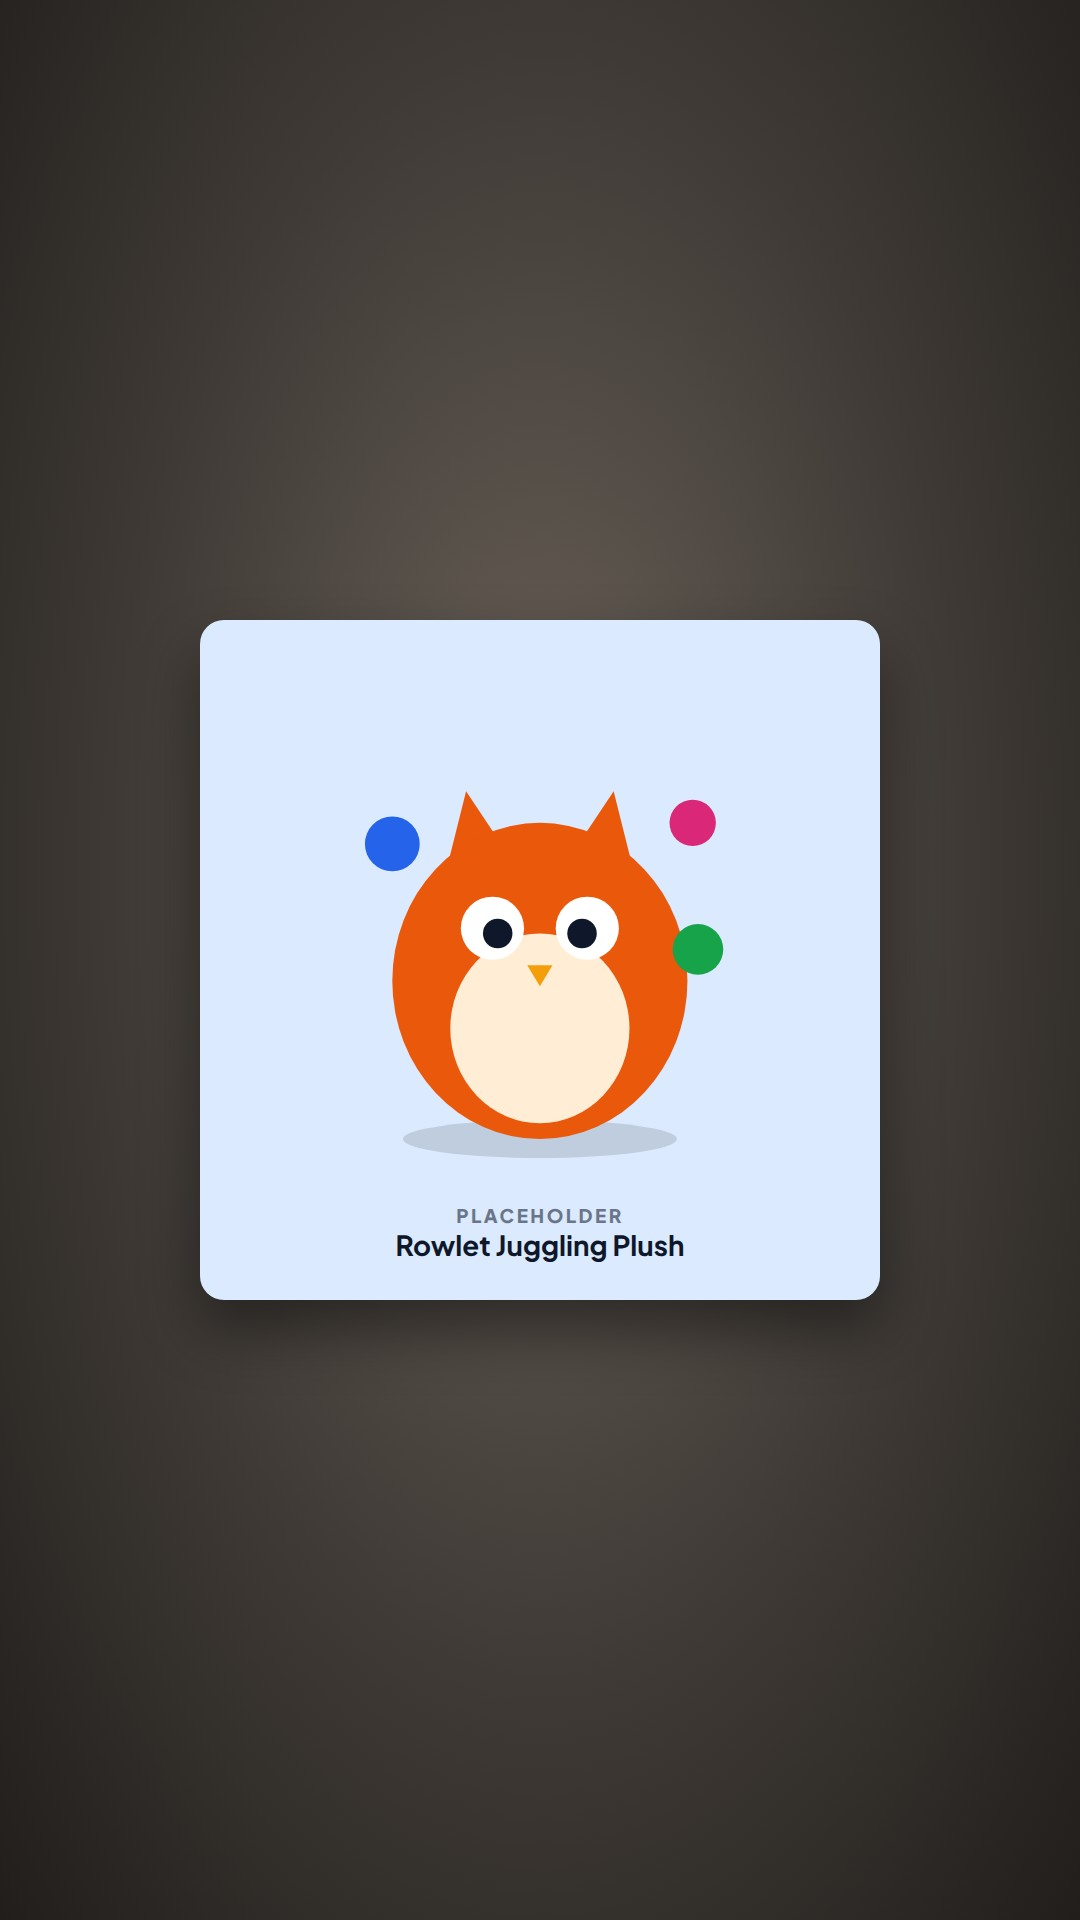
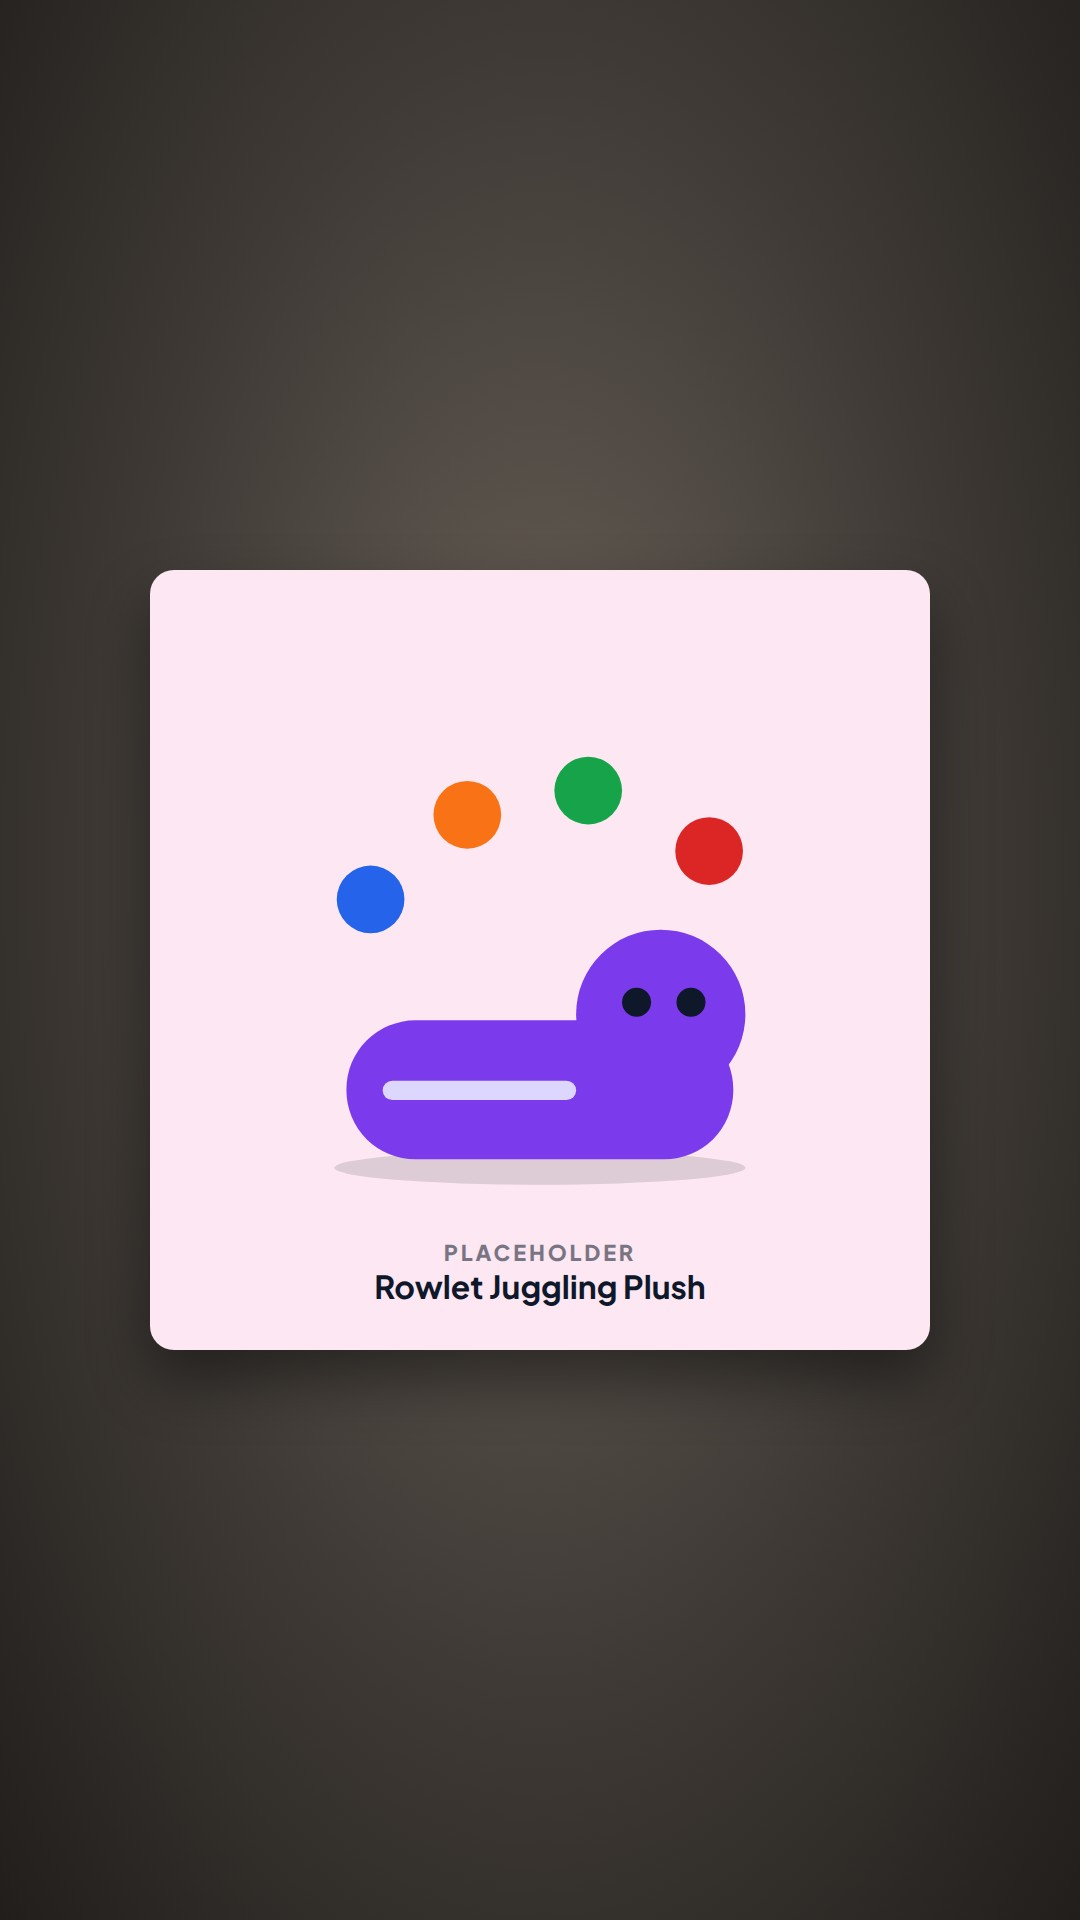
Record the store video with screenrecord and fix the demo build
- Record each scene with adb screenrecord at 20 Mbps. Maestro's
  startRecording uses 100 kbps and loses the end of each clip. Each scene
  is now its own Maestro flow, and capture.sh shortens still stretches.
- Load the demo images with expo-image. In Android release builds,
  expo-asset gives bundled images a drawable resource name, not a file.
- Show an alert when "Load sample data" fails, instead of failing silently.
- Redraw the juggling placeholder so the photo matcher tells it apart from
  the jumbo plush, and hide the demo status bar's mobile signal.

Changed region(s): [[0.1222, 0.2812, 0.8861, 0.7188]]

diff --git a/video/src/stills/DemoAssets.tsx b/video/src/stills/DemoAssets.tsx
@@ -12,10 +12,14 @@ import { ean13 } from './ean13';
 
 export type DemoItem = 'jumbo' | 'juggling';
 
-const ITEMS: Record<DemoItem, { title: string; bg: string; body: string; belly: string; balls: boolean }> = {
-  jumbo: { title: 'Rowlet Jumbo Plush', bg: '#FEF3C7', body: '#65A30D', belly: '#ECFCCB', balls: false },
-  juggling: { title: 'Rowlet Juggling Plush', bg: '#DBEAFE', body: '#EA580C', belly: '#FFEDD5', balls: true },
+// Two clearly different drawings, so the photo matcher tells them apart.
+const ITEMS: Record<DemoItem, { title: string; bg: string; drawing: React.ReactNode }> = {
+  jumbo: { title: 'Rowlet Jumbo Plush', bg: '#FEF3C7', drawing: <Owl /> },
+  juggling: { title: 'Rowlet Juggling Plush', bg: '#FCE7F3', drawing: <Juggler /> },
 };
+
+/** Side of the item in the photo scene: a little over the guides, so the scanner's crop is mostly the item. */
+const SCENE_ITEM_PX = 780;
 
 /** Size of the scanner's guides on a 1080 × 1920 scene shown on a 9:16 screen (272 dp at 2.625 px per dp is 714 px). */
 const GUIDE_PX = 680;
@@ -25,28 +29,47 @@ export function DemoItemPhoto({ item }: { item: DemoItem }) {
   return (
     <AbsoluteFill style={{ backgroundColor: it.bg, alignItems: 'center', justifyContent: 'center', fontFamily }}>
       <svg viewBox="0 0 400 400" style={{ width: '62%', height: '62%' }}>
-        <ellipse cx="200" cy="370" rx="130" ry="18" fill="rgba(0,0,0,0.12)" />
-        <path d="M110 120 L130 40 L170 100 Z M290 120 L270 40 L230 100 Z" fill={it.body} />
-        <ellipse cx="200" cy="220" rx="140" ry="150" fill={it.body} />
-        <ellipse cx="200" cy="265" rx="85" ry="90" fill={it.belly} />
-        <circle cx="155" cy="170" r="30" fill="white" />
-        <circle cx="245" cy="170" r="30" fill="white" />
-        <circle cx="160" cy="175" r="14" fill={colors.textPrimary} />
-        <circle cx="240" cy="175" r="14" fill={colors.textPrimary} />
-        <path d="M188 205 L212 205 L200 225 Z" fill="#F59E0B" />
-        {it.balls && (
-          <g>
-            <circle cx="60" cy="90" r="26" fill="#2563EB" />
-            <circle cx="345" cy="70" r="22" fill="#DB2777" />
-            <circle cx="350" cy="190" r="24" fill="#16A34A" />
-          </g>
-        )}
+        {it.drawing}
       </svg>
       <div style={{ position: 'absolute', bottom: 60, left: 0, right: 0, textAlign: 'center', color: colors.textPrimary }}>
         <div style={{ fontSize: 30, fontWeight: 800, letterSpacing: 4, opacity: 0.55 }}>PLACEHOLDER</div>
         <div style={{ fontSize: 44, fontWeight: 700 }}>{it.title}</div>
       </div>
     </AbsoluteFill>
+  );
+}
+
+function Owl() {
+  return (
+    <g>
+      <ellipse cx="200" cy="370" rx="130" ry="18" fill="rgba(0,0,0,0.12)" />
+      <path d="M110 120 L130 40 L170 100 Z M290 120 L270 40 L230 100 Z" fill="#65A30D" />
+      <ellipse cx="200" cy="220" rx="140" ry="150" fill="#65A30D" />
+      <ellipse cx="200" cy="265" rx="85" ry="90" fill="#ECFCCB" />
+      <circle cx="155" cy="170" r="30" fill="white" />
+      <circle cx="245" cy="170" r="30" fill="white" />
+      <circle cx="160" cy="175" r="14" fill={colors.textPrimary} />
+      <circle cx="240" cy="175" r="14" fill={colors.textPrimary} />
+      <path d="M188 205 L212 205 L200 225 Z" fill="#F59E0B" />
+    </g>
+  );
+}
+
+/** A long, lying plush under an arc of balls. */
+function Juggler() {
+  return (
+    <g>
+      <ellipse cx="200" cy="372" rx="170" ry="14" fill="rgba(0,0,0,0.12)" />
+      <rect x="40" y="250" width="320" height="115" rx="57" fill="#7C3AED" />
+      <circle cx="300" cy="245" r="70" fill="#7C3AED" />
+      <circle cx="280" cy="235" r="12" fill={colors.textPrimary} />
+      <circle cx="325" cy="235" r="12" fill={colors.textPrimary} />
+      <rect x="70" y="300" width="160" height="16" rx="8" fill="#DDD6FE" />
+      <circle cx="60" cy="150" r="28" fill="#2563EB" />
+      <circle cx="140" cy="80" r="28" fill="#F97316" />
+      <circle cx="240" cy="60" r="28" fill="#16A34A" />
+      <circle cx="340" cy="110" r="28" fill="#DC2626" />
+    </g>
   );
 }
 
@@ -71,8 +94,8 @@ export function DemoPhotoScene() {
     <Tabletop>
       <div
         style={{
-          width: GUIDE_PX,
-          height: GUIDE_PX,
+          width: SCENE_ITEM_PX,
+          height: SCENE_ITEM_PX,
           borderRadius: 24,
           overflow: 'hidden',
           position: 'relative',
@@ -80,7 +103,7 @@ export function DemoPhotoScene() {
         }}
       >
         {/* The whole 1080 px reference photo, scaled down, so the scan looks like it. */}
-        <div style={{ width: 1080, height: 1080, transform: `scale(${GUIDE_PX / 1080})`, transformOrigin: 'top left' }}>
+        <div style={{ width: 1080, height: 1080, transform: `scale(${SCENE_ITEM_PX / 1080})`, transformOrigin: 'top left' }}>
           <DemoItemPhoto item="juggling" />
         </div>
       </div>

diff --git a/src/features/demo/demo.ts b/src/features/demo/demo.ts
@@ -1,4 +1,5 @@
-import { Asset } from 'expo-asset';
+import { Image } from 'expo-image';
+import { ImageManipulator, SaveFormat } from 'expo-image-manipulator';
 
 import { updateItem } from '@/db/repositories/items';
 import { SEED_BARCODES, seedDatabase } from '@/db/seed';
@@ -36,9 +37,17 @@ const ITEM_PHOTOS: Record<string, number[]> = {
   'Rowlet Juggling Plush': [juggling],
 };
 
+/**
+ * Saves a bundled image to a file. Android release builds keep bundled images
+ * as drawable resources, which have no file URI, so expo-image loads them.
+ */
 async function localFile(module: number) {
-  const asset = await Asset.fromModule(module).downloadAsync();
-  return { uri: asset.localUri!, width: asset.width ?? 0, height: asset.height ?? 0 };
+  const loaded = await Image.loadAsync(module);
+  const rendered = await ImageManipulator.manipulate(loaded).renderAsync();
+  const saved = await rendered.saveAsync({ format: SaveFormat.JPEG, compress: 1 });
+  loaded.release();
+  rendered.release();
+  return saved;
 }
 
 /** A file URI for a scene's image, for the photo matcher. */

diff --git a/video/src/scenes.ts b/video/src/scenes.ts
@@ -1,6 +1,7 @@
 /*
- * The store video, scene by scene. Each scene plays one clip that
- * maestro/promo.yaml recorded (its startRecording name) under a caption.
+ * The store video, scene by scene. Each scene plays one clip under a
+ * caption. scripts/capture.sh records each clip while the Maestro flow of the
+ * same name (maestro/<clip>.yaml) runs.
  *
  * Google Play autoplays the first 30 seconds muted, so the captions carry the
  * story. Its listing rules also forbid calls to action ("Download now") and

diff --git a/src/features/settings/SettingsScreen.tsx b/src/features/settings/SettingsScreen.tsx
@@ -127,7 +127,12 @@ export function SettingsScreen() {
   const loadSample = async () => {
     const existing = await listCollections();
     const go = async () => {
-      await (DEMO ? seedDemo() : seedDatabase());
+      try {
+        await (DEMO ? seedDemo() : seedDatabase());
+      } catch (e) {
+        Alert.alert('Could not load sample data', String((e as Error).message ?? e));
+        return;
+      }
       goBack(router);
     };
     if (existing.length) {

diff --git a/video/README.md b/video/README.md
@@ -1,6 +1,6 @@
 # Store video
 
-This folder makes the Google Play preview video. A Maestro flow drives the app on an Android emulator and records clips of each feature, and Remotion puts the clips together with captions and an end card. One command, `npm run video`, does both steps and writes `out/promo.mp4`.
+This folder makes the Google Play preview video. Maestro flows drive the app on an Android emulator while `adb screenrecord` records a clip of each feature, and Remotion puts the clips together with captions and an end card. One command, `npm run video`, does both steps and writes `out/promo.mp4`.
 
 The video is 1080 × 1920 at 30 fps. Google Play only plays a YouTube link, so you upload the file to YouTube yourself and paste the link into Play Console.
 
@@ -9,7 +9,8 @@ The video is 1080 × 1920 at 30 fps. Google Play only plays a YouTube link, so y
 You need these tools:
 
 - Node, and `npm install` run in this folder.
-- The Android SDK with `adb` and an emulator. The Pixel 2 hardware profile is the best fit, because its 1080 × 1920 screen has the same shape as the video. On Linux, the emulator needs access to `/dev/kvm`.
+- The Android SDK with `adb`, the emulator, and an x86_64 system image. On Linux, the emulator needs access to `/dev/kvm`.
+- An emulator with the Pixel 2 hardware profile, because its 1080 × 1920 screen has the same shape as the video. For example, run `avdmanager create avd -n grailbox_promo -k "system-images;android-36;google_apis;x86_64" -d pixel_2`.
 - [Maestro](https://docs.maestro.dev/getting-started/installing-maestro).
 - On Linux and WSL, the NSS libraries for Remotion's headless Chrome, with `sudo apt-get install libnss3`.
 
@@ -28,7 +29,9 @@ Or you can build it locally from the repository root:
 EXPO_PUBLIC_DEMO=1 npx expo run:android --variant release
 ```
 
-Second, start the emulator and run `npm run video` in this folder. The capture step clears the app's data, loads the sample data, records six clips into `public/clips/`, and then renders `out/promo.mp4`. During the recording, Android's demo mode shows a fixed clock and a full battery in the status bar.
+Second, start the emulator, e.g., with `emulator -avd grailbox_promo -no-window -no-audio -gpu swiftshader_indirect`, and run `npm run video` in this folder. The capture step clears the app's data, loads the sample data, records six clips into `public/clips/`, and then renders `out/promo.mp4`. It takes about 4 minutes. During the recording, Android's demo mode shows a fixed clock and a full battery in the status bar.
+
+The capture step shortens every stretch where the screen doesn't change, because Maestro takes a few seconds to start each flow and about a second between steps. It cuts these stretches to 0.3 seconds at the start and end of a clip, and to 1 second in between. The script doesn't use Maestro's own `startRecording` command, because Maestro records at 100 kbps, which is too low for a store video.
 
 Third, upload `out/promo.mp4` to YouTube. Google Play requires the video to be public or unlisted, with monetization turned off and no age restriction. Paste the `youtube.com/watch?v=` link into the store listing in Play Console.
 
@@ -41,7 +44,7 @@ The emulator has no real camera, so the demo build changes two things in the app
 
 ## Change the video
 
-The captions, the scene order, and the timing are in `src/scenes.ts`. You can trim the start or end of a clip, speed a clip up, or hold its last frame for longer. Run `npm run studio` to preview the video in a browser as you edit. If you have no device at hand, `npm run clips:sample` makes stand-in clips so that you can still work on the layout.
+The captions, the scene order, and the timing are in `src/scenes.ts`. To record a new scene, add a flow to `maestro/`, add it to `STEPS` in `scripts/capture.sh` with a leading `@`, and add a scene with the same clip name to `src/scenes.ts`. You can trim the start or end of a clip, speed a clip up, or hold its last frame for longer. Run `npm run studio` to preview the video in a browser as you edit. If you have no device at hand, `npm run clips:sample` makes stand-in clips so that you can still work on the layout.
 
 Google Play autoplays the first 30 seconds of the video without sound, so the captions need to tell the story. Its rules also forbid calls to action like "Download now" and claims like "#1", "Best", or "Free" in the video.
 
@@ -54,4 +57,4 @@ The images in `assets/demo/` are drawn placeholders, which `npm run demo-assets`
 - `jumbo-plush.jpg` and `juggling-plush.jpg` are the item photos. A square photo works best.
 - `scan-barcode.jpg` and `scan-photo.jpg` are what the scanner "sees". Each one should be a 1080 × 1920 portrait photo with the subject in the middle, inside a square about 680 px wide, because that is where the scanner's guides sit on a 1080 × 1920 screen.
 
-The photo scene has to match the juggling plush and no other item, so check that the 02-photo clip ends on "ON WISHLIST" after you change either photo. If the match fails, the capture step stops with an error.
+The photo scene has to match the juggling plush clearly better than any other item, because the scanner needs a lead of 0.1 over the next item. If the match fails, the 02-photo flow stops the capture step with an error.
